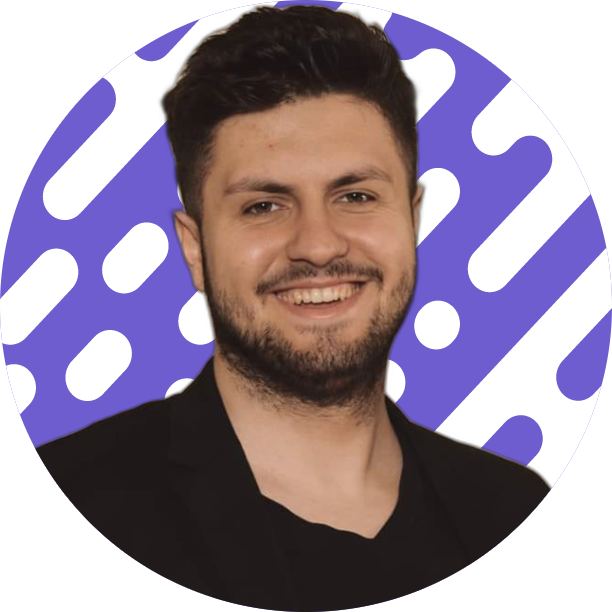
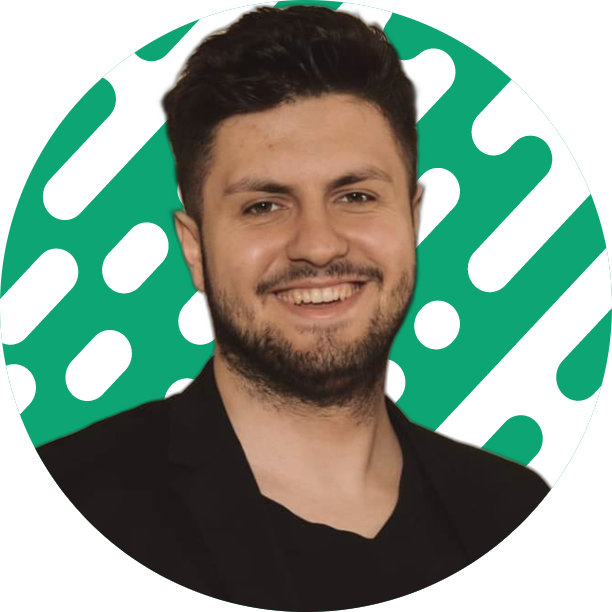
Portfolio - theme change
This commit is containing all changes in the website's theme.

diff --git a/src/components/contactform/ContactFormComponent.vue b/src/components/contactform/ContactFormComponent.vue
@@ -1,6 +1,7 @@
 <script setup>
-import BaseSectionComponent from '../utils/BaseSectionComponent.vue'</script>
-
+import BaseSectionComponent from '../utils/BaseSectionComponent.vue'
+import BaseButtonComponent from '../utils/BaseButtonComponent.vue'
+</script>
 <template>
   <BaseSectionComponent
       heading="Contact form"
@@ -27,30 +28,17 @@ import BaseSectionComponent from '../utils/BaseSectionComponent.vue'</script>
         Your message:
       </p>
       <textarea maxlength='10000' name="message" placeholder="Message..." required></textarea>
-      <button type="submit">
+      <BaseButtonComponent
+          backgroundColor="#0da574"
+      >
         <font-awesome-icon icon="paper-plane"/>
         Send
-      </button>
+      </BaseButtonComponent>
     </form>
   </BaseSectionComponent>
 </template>
 
 <style scoped>
-button {
-  width: 100%;
-  padding: 10px;
-  border-radius: 10px;
-  background-color: var(--first-color);
-  transition: background-color 0.5s;
-  border: none;
-  margin-top: 40px;
-}
-
-button:hover {
-  background-color: var(--second-color);
-  cursor: pointer;
-}
-
 textarea, input {
   width: 100%;
   padding: 10px;
@@ -65,7 +53,7 @@ textarea {
   resize: none;
 }
 
-label {
+label, button {
   margin: 40px 0 20px 0;
 }
 </style>

diff --git a/src/components/header/HeaderComponent.vue b/src/components/header/HeaderComponent.vue
@@ -1,6 +1,6 @@
 <template>
   <header>
-    <article class="animate__animated animate__bounce">
+    <article class="animate__animated animate__fadeIn">
       <section>
         <h1>
           Hello, I'm
@@ -45,7 +45,7 @@ article > section:first-child {
 }
 
 article > section:nth-child(2) {
-  background-image: radial-gradient(var(--second-color) 20%, var(--background-color) 20%);
+  background-image: radial-gradient(var(--primary-color) 20%, var(--background-color) 20%);
   background-position: 0 0;
   background-size: 100px 100px;
 }
@@ -56,20 +56,21 @@ h1 {
 }
 
 .color {
-  color: var(--second-color);
+  color: var(--secondary-color);
 }
 
 h2 {
   margin: 0;
+  color: var(--font-color);
 }
 
 img {
   align-self: center;
   justify-self: right;
+  border: 8px solid var(--secondary-color);
   width: 400px;
   height: 400px;
   border-radius: 50%;
-  filter: drop-shadow(0 0 20px #1d1d1d);
 }
 
 @media only screen and (max-width: 947px) {

diff --git a/src/theme/main.css b/src/theme/main.css
@@ -17,11 +17,11 @@
 
 /*Global properties and variables*/
 :root {
-    --background-color: #eaebed;
-    --background-color-light: #dad7d7;
-    --first-color: #6e5dcf;
-    --second-color: #6e5dcf;
-    --font-color: #243b67;
+    --background-color: #1d1d1d;
+    --background-color-light: #282828;
+    --primary-color: #0da574;
+    --secondary-color: #ffd717;
+    --font-color: white;
     scroll-behavior: smooth;
     background-color: var(--background-color);
 }
@@ -42,7 +42,7 @@ a {
 }
 
 a:hover {
-    color: var(--first-color);
+    color: var(--primary-color);
 }
 
 button {
@@ -63,4 +63,12 @@ h1 {
 
 h2, h3 {
     font-size: x-large;
+}
+
+h2 {
+    color: var(--secondary-color);
+}
+
+h3 {
+    color: var(--primary-color);
 }

diff --git a/src/components/aboutme/AboutMeComponent.vue b/src/components/aboutme/AboutMeComponent.vue
@@ -47,7 +47,7 @@ import BaseSectionComponent from '../utils/BaseSectionComponent.vue'</script>
           <font-awesome-icon icon="file-circle-check"/>
           About me:
         </h3>
-        <p class="text-justify">
+        <p>
           Well-qualified front-end developer familiar with a wide range of programming utilities and
           languages.
           Knowledgeable of backend development requirements.
@@ -99,10 +99,6 @@ import BaseSectionComponent from '../utils/BaseSectionComponent.vue'</script>
   background-color: var(--background-color);
   border-radius: 10px;
   width: 100%;
-}
-
-p {
-  font-weight: bold;
 }
 
 .tech-section {

diff --git a/src/components/projects/ProjectComponent.vue b/src/components/projects/ProjectComponent.vue
@@ -14,7 +14,7 @@ const project = projects[0];
           <font-awesome-icon icon="code"/>
           Tech used:
         </h3>
-        <p>
+        <p class="text-justify">
           <template v-for="tech in project.tech">
             <font-awesome-icon :icon="['fab', tech.icon]"/>
             {{ tech.name }}&nbsp;
@@ -61,7 +61,7 @@ img {
   width: 100%;
   height: 100%;
   border-radius: 10px;
-  border: 3px solid var(--first-color);
+  border: 3px solid var(--primary-color);
   box-sizing: border-box;
 }
 

diff --git a/src/components/projects/ProjectsComponent.vue b/src/components/projects/ProjectsComponent.vue
@@ -19,7 +19,7 @@ import BaseButtonComponent from '../utils/BaseButtonComponent.vue'</script>
         </p>
         <router-link to="/project">
           <BaseButtonComponent
-              backgroundColor="#6e5dcf"
+              backgroundColor="#0da574"
           >
             <font-awesome-icon :icon="['fab', 'readme']"/>
             Read more

diff --git a/src/components/utils/BaseButtonComponent.vue b/src/components/utils/BaseButtonComponent.vue
@@ -21,11 +21,11 @@ button {
   width: 100%;
   margin-bottom: 10px;
   box-sizing: border-box;
-  transition: 0.5s background-color;
+  transition: 0.5s opacity;
 }
 
 button:hover {
   cursor: pointer;
-  background-color: var(--second-color);
+  opacity: 0.5;
 }
 </style>

diff --git a/src/components/navbar/NavBarSmallViewportComponent.vue b/src/components/navbar/NavBarSmallViewportComponent.vue
@@ -90,7 +90,7 @@ span {
   display: flex;
   flex-direction: column;
   background-color: var(--background-color-light);
-  border: 3px solid var(--first-color);
+  border: 3px solid var(--primary-color);
   border-radius: 10px;
 }
 

diff --git a/src/components/footer/FooterComponent.vue b/src/components/footer/FooterComponent.vue
@@ -61,7 +61,7 @@ section {
 h3 {
   padding-bottom: 20px;
   margin-bottom: 40px;
-  border-bottom: 3px solid var(--first-color);
+  border-bottom: 3px solid var(--primary-color);
 }
 
 @media only screen and (max-width: 871px) {

diff --git a/src/components/navbar/NavBarLargeViewportComponent.vue b/src/components/navbar/NavBarLargeViewportComponent.vue
@@ -53,7 +53,7 @@ span {
 
 section:nth-child(2) > span {
   padding-right: 20px;
-  border-right: 3px solid var(--font-color);
+  border-right: 4px solid var(--primary-color);
 }
 
 section:nth-child(2) > span:last-child {

diff --git a/src/components/utils/BaseLogoComponent.vue b/src/components/utils/BaseLogoComponent.vue
@@ -10,7 +10,7 @@ const router = useRouter()
 </template>
 <style scoped>
 span {
-  color: var(--font-color);
+  color: var(--primary-color);
   font-size: 3rem;
   font-family: 'Ms Madi', cursive;
   margin: 0;
